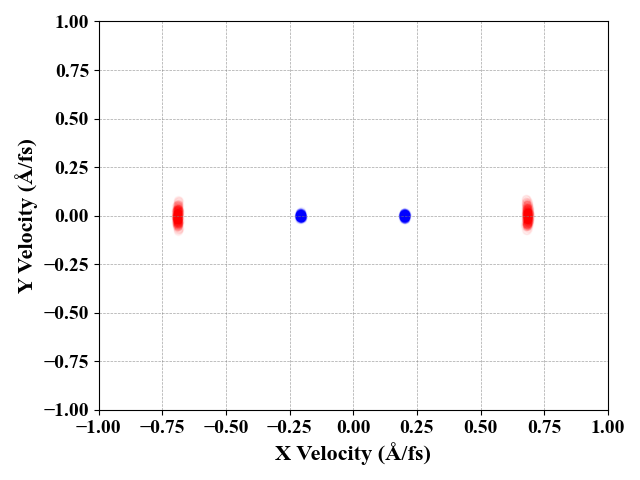
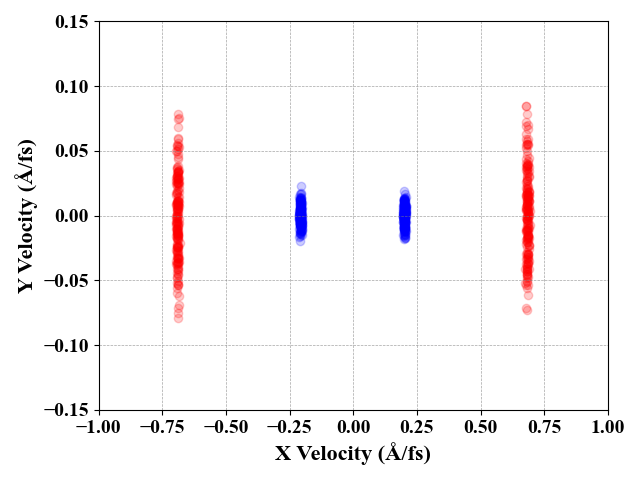
improved plot axis limits

diff --git a/scripts/newton_plot.py b/scripts/newton_plot.py
@@ -701,8 +701,8 @@ def main():
     alpha = 0.2  #set alpha =0.2 for c4h10 and =0.03 for c2h2
     lim_2d_left=-1.0
     lim_2d_right=1.0
-    lim_2d_bottom=-1.0
-    lim_2d_top=1.0
+    lim_2d_bottom=-0.15
+    lim_2d_top=0.15
     lim_3d_x_lower=-1.0
     lim_3d_x_upper=1.0
     lim_3d_y_lower=-1.0
@@ -715,26 +715,25 @@ def main():
 
     if (data_mode.lower().startswith('c')):
         #CLASSICAL INPUT FILE:
-        input_file = 'data\\c2h2_classical\\atom_info.csv'
-        input_file = 'data\\c4h10_classical\\28\\atom_info.csv'
         input_file = 'data\\c4h10_classical\\14\\atom_info.csv'
+        input_file = 'data\\c4h10_classical\\28\\atom_info.csv'
+        input_file = 'data\\c2h2_classical\\atom_info.csv'
         input_file = 'data\\isoxazole_classical\\atom_info.csv'
-
         graph_name_tag="classical"
         
     if (data_mode.lower().startswith('q')):
         #QUANTUM INPUT FILE:
-        input_file = 'data\\c2h2_quantum\\moleculeFormations_14.csv'
-        input_file = 'data\\c4h10_quantum\\28\\moleculeFormations_28.csv' 
         input_file = 'data\\c4h10_quantum\\14\\moleculeFormations_14.csv'
+        input_file = 'data\\c4h10_quantum\\28\\moleculeFormations_28.csv' 
+        input_file = 'data\\c2h2_quantum\\moleculeFormations_14.csv'
         input_file = 'data\\isoxazole_quantum\\moleculeFormations_14.csv' 
         graph_name_tag="quantum"
 
     if (data_mode.lower().startswith('s')):
         #SEMI-CLASSICAL INPUT FILE:
-        input_file = 'data\\c2h2_semi_classical\\atom_info.csv'
-        input_file = 'data\\c4h10_semi_classical\\28\\atom_info.csv'
         input_file = 'data\\c4h10_semi_classical\\14\\atom_info.csv'
+        input_file = 'data\\c4h10_semi_classical\\28\\atom_info.csv'
+        input_file = 'data\\c2h2_semi_classical\\atom_info.csv'
         input_file = 'data\\isoxazole_semi_classical\\atom_info.csv'
         graph_name_tag="semi-classical"
 
